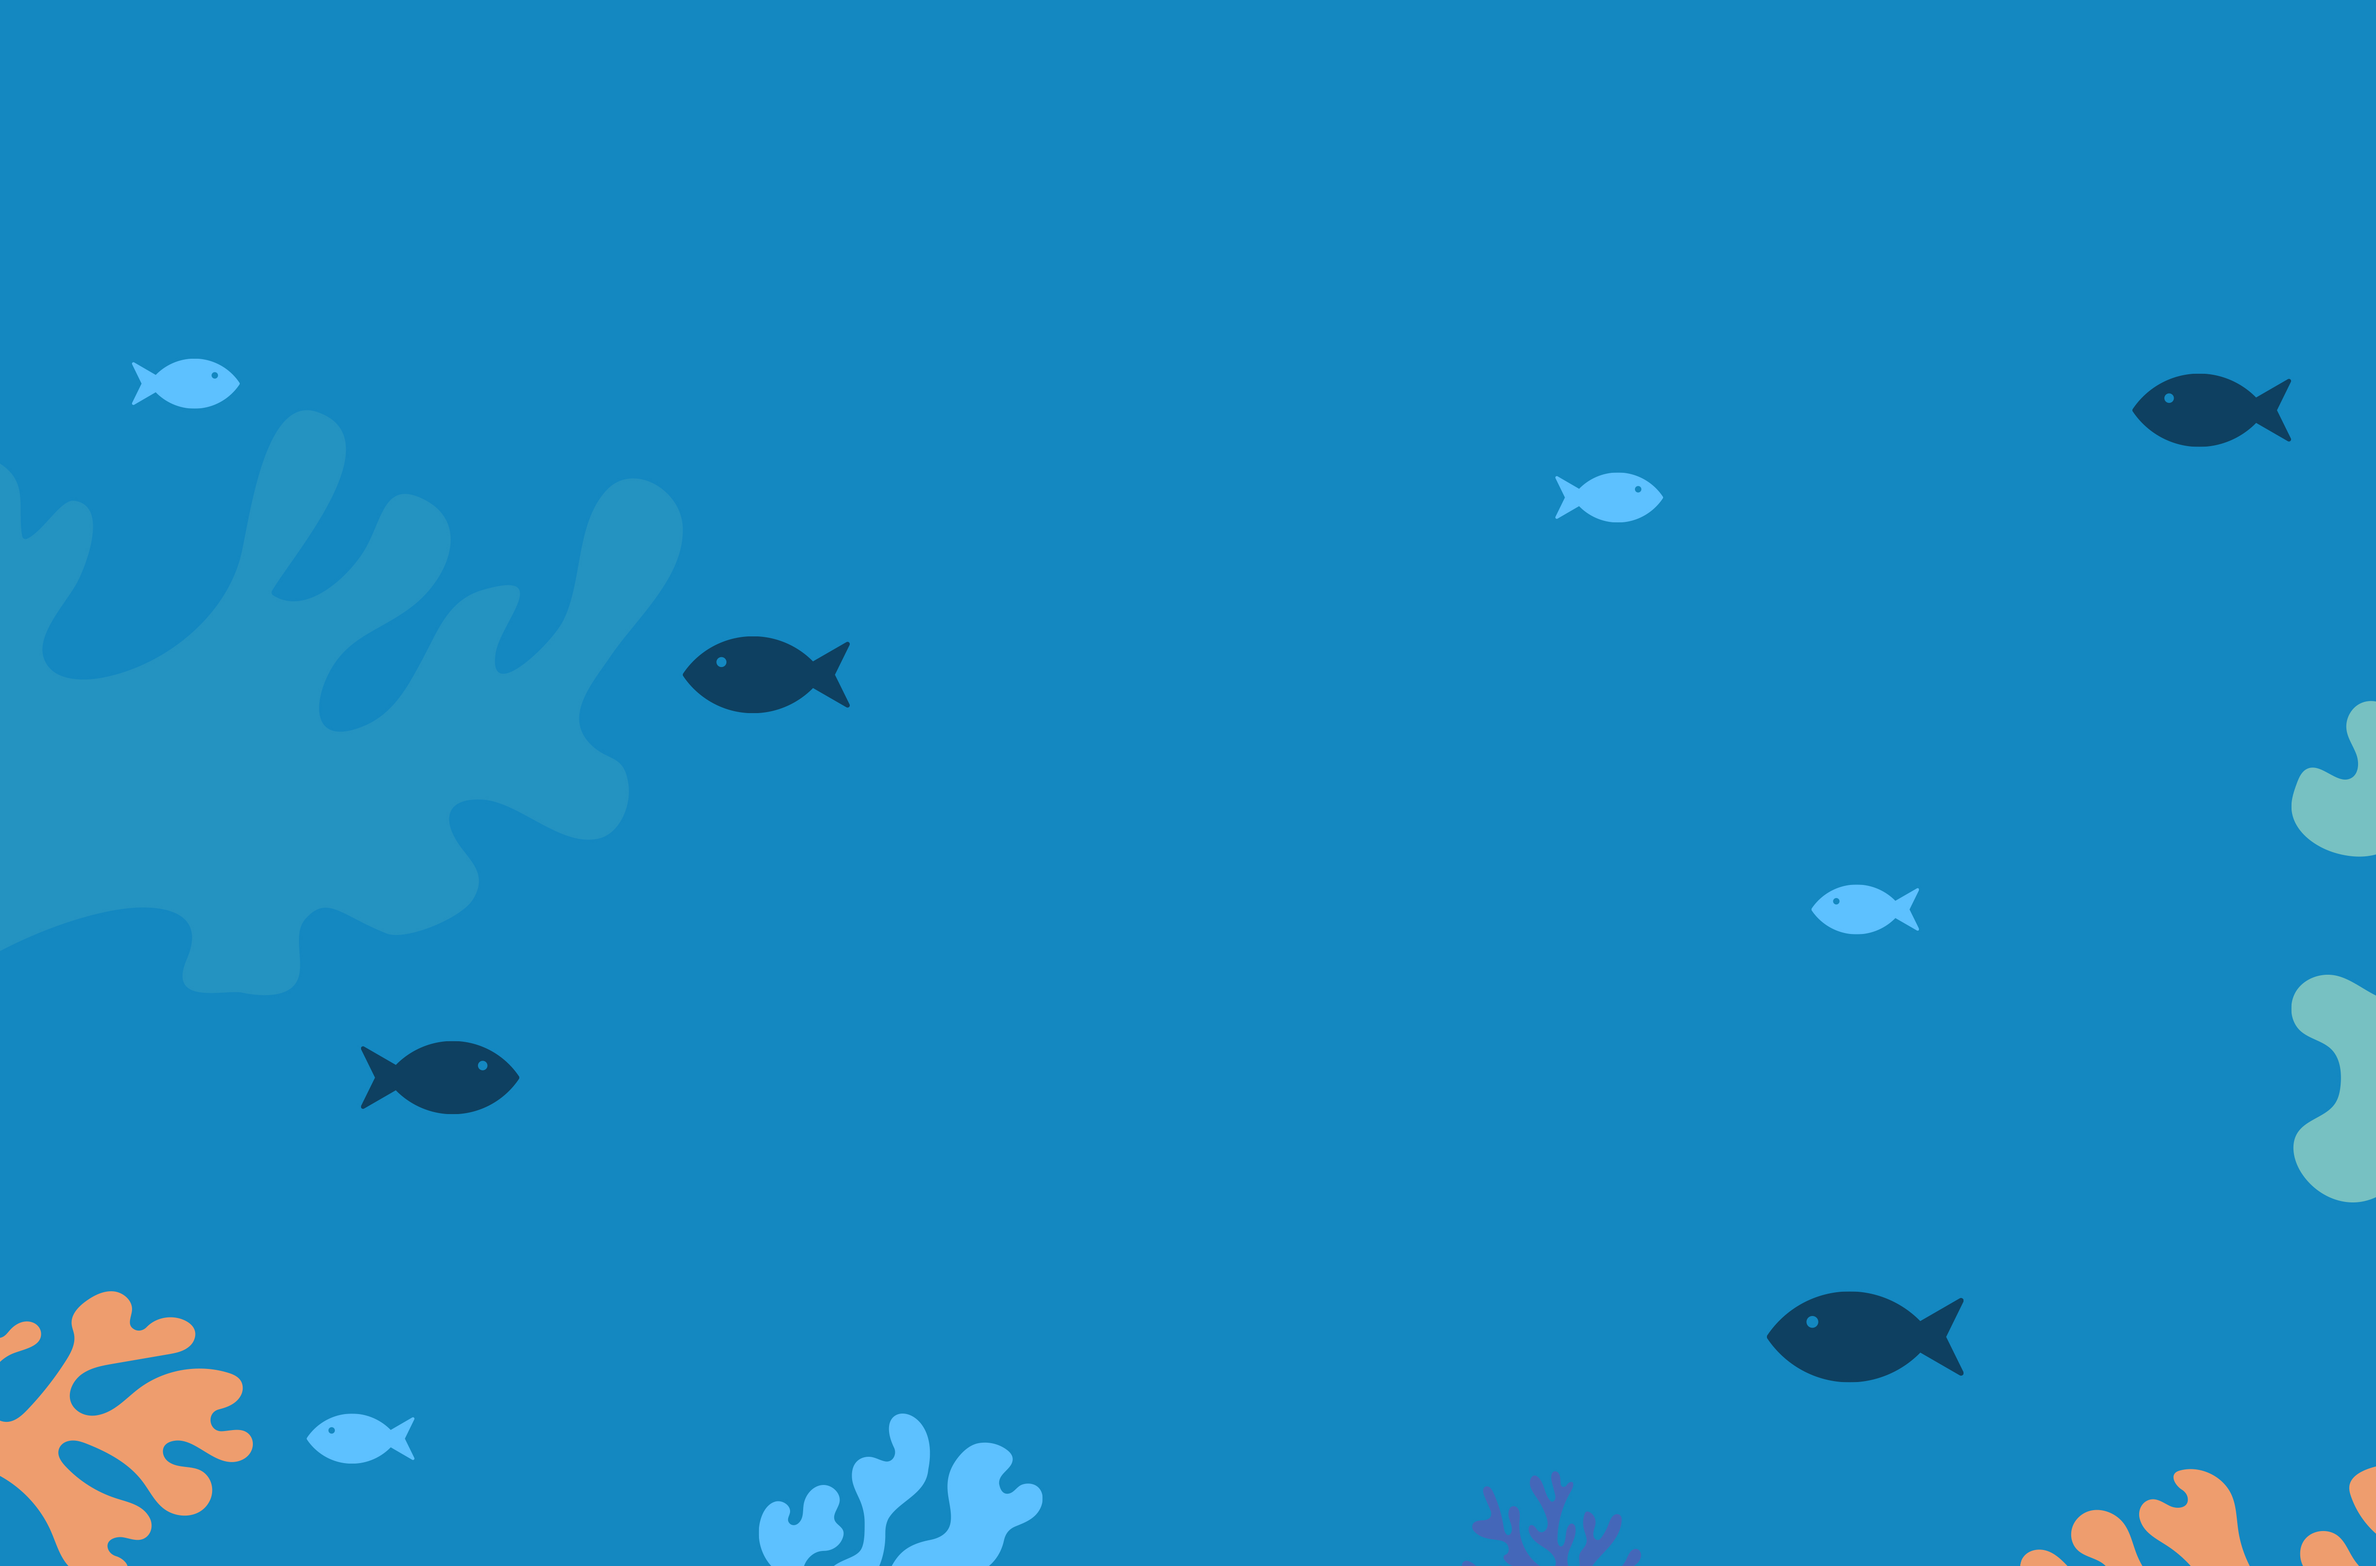
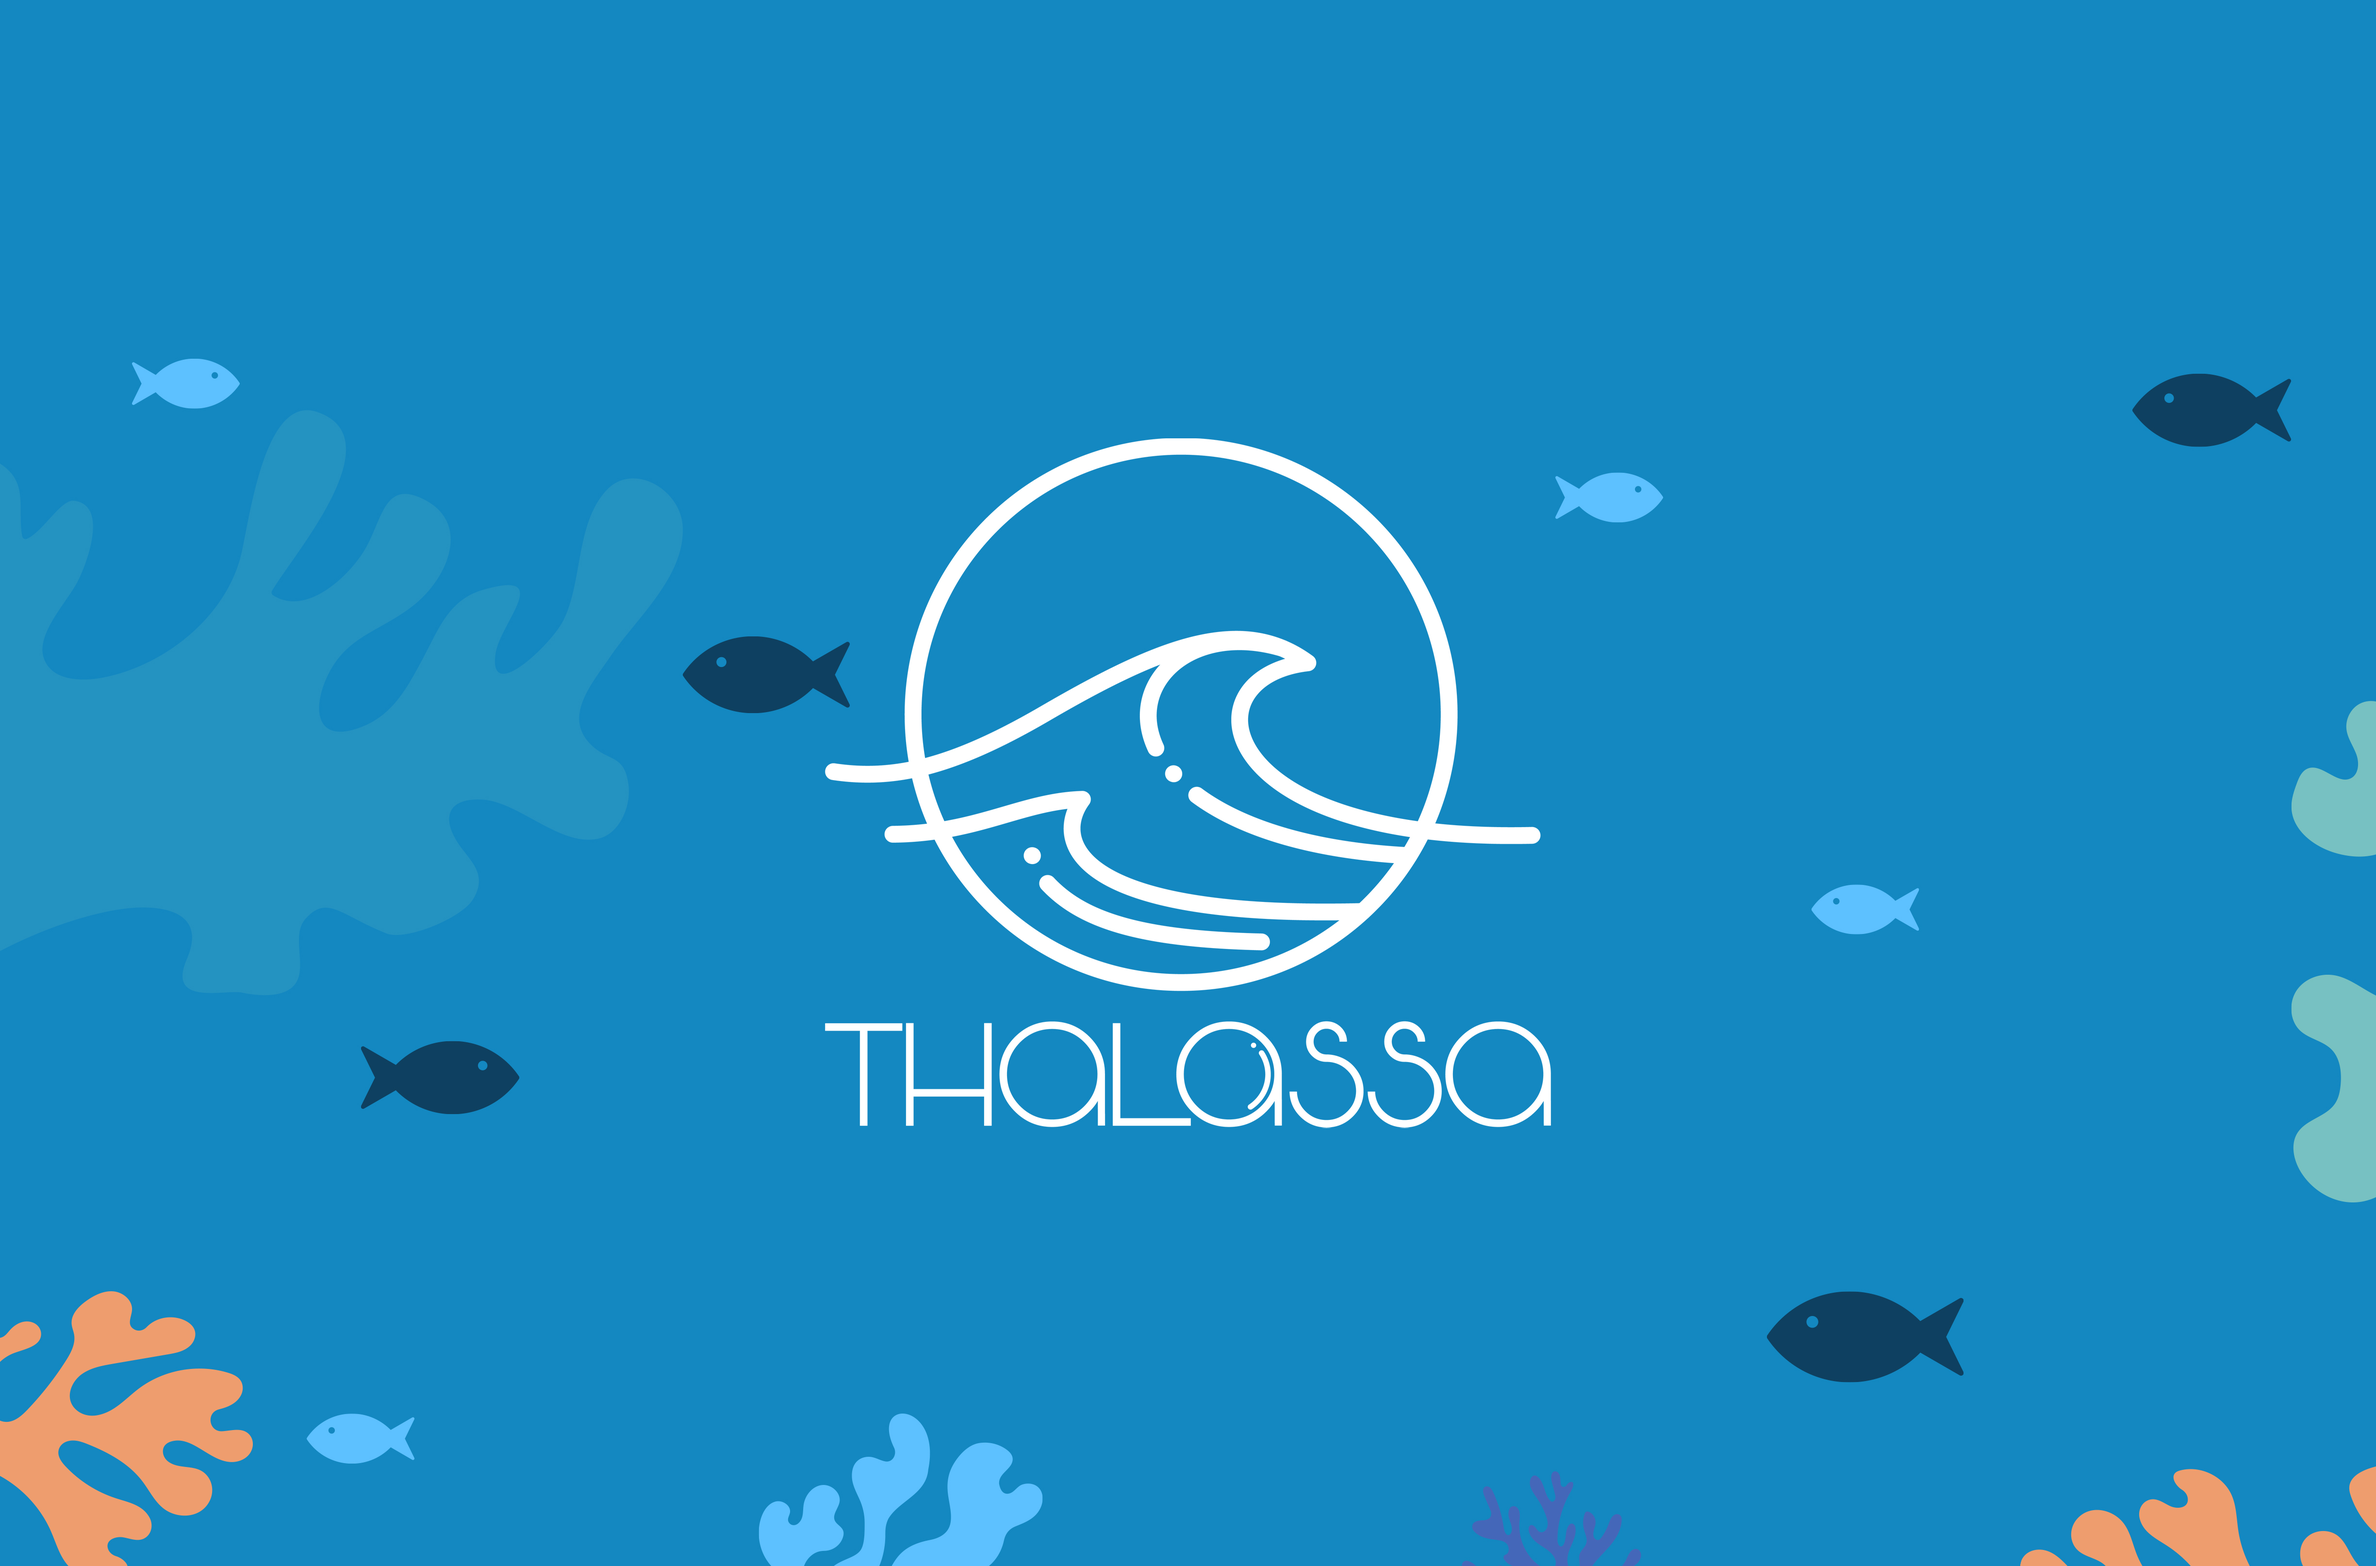
home changed

Changed region(s): [[0.3438, 0.31, 0.6562, 0.744], [0.4375, 0.279, 0.5625, 0.31], [0.5625, 0.31, 0.5938, 0.372]]

diff --git a/home.html b/home.html
@@ -26,12 +26,6 @@
     </header>
     
     <main class="container">
-        <section class="background1">
-            <div class="overlay">
-                <img src="Files_home/Logo1.png" alt="logo" class="overlay">
-            </div>
-        </section>
-
         <section class="mission-section">
             <div class="mission-content">
                 <h2>Our Mission</h2>

diff --git a/styles_home.css b/styles_home.css
@@ -39,14 +39,6 @@ img {
     height: auto;
 }
 
-.logo {
-    padding-top: 15px;
-    padding-left: 30px;
-    width: 16%;
-    height: auto;
-    margin-right: auto;
-}
-
 .background2 {
     font-size: larger;
     text-align: center;
